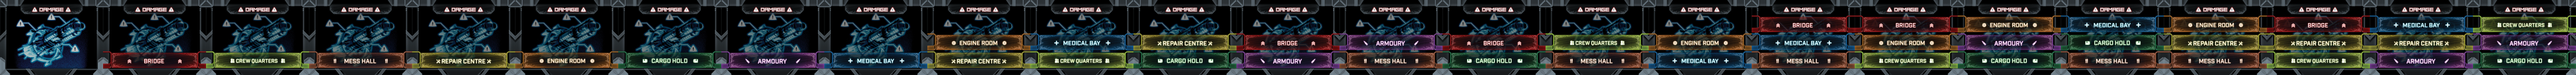
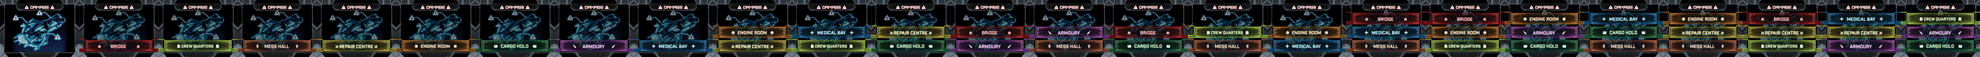
WIP

diff --git a/solarstorm.js b/solarstorm.js
@@ -68,6 +68,7 @@ define(['dojo', 'dojo/_base/declare', 'ebg/core/gamegui', 'ebg/counter', 'ebg/st
     },
 
     initializeDamageDeck() {
+      $first('.ss-damage-deck__title').innerHTML = '<span>' + _('Damage cards') + '</span>';
       const damageDeckEl = $first('.ss-damage-deck');
       this.damageDeck = this.createDamageStock(damageDeckEl);
       this.damageDeck.setOverlap(0.01);
@@ -77,12 +78,13 @@ define(['dojo', 'dojo/_base/declare', 'ebg/core/gamegui', 'ebg/counter', 'ebg/st
         this.damageDeck.addToStock(card.type);
       }
 
-      this.addTooltipMarkdown(damageDeckEl, _('Damage deck.\n----\nAt then **end of turn** of each player, a new card is revealed, indicating rooms which are damaged.\nThe deck is ordered like this :\n+ 8 damage cards with 1 room\n+ 8 damage cards with 2 rooms\n+ 8 damage cards with 3 rooms.\nWhen the deck is empty, the ship\' hull starts taking damage, and resources will be discarded from the deck, accelerating the end of the game !\n----\n+ Note: at the start of the game, two damage cards are revealed from the bottom (applying 6 damages).\n+ Note 2: if a room has a *protection* token, instead of taking damage, the protection token is removed.'), {}, 1000);
+      this.addTooltipMarkdown(damageDeckEl, _("Damage deck.\n----\nAt then **end of turn** of each player, a new card is revealed, indicating rooms which are damaged.\nThe deck is ordered like this :\n+ 8 damage cards with 1 room\n+ 8 damage cards with 2 rooms\n+ 8 damage cards with 3 rooms.\nWhen the deck is empty, the ship' hull starts taking damage, and resources will be discarded from the deck, accelerating the end of the game !\n----\n+ Note: at the start of the game, two damage cards are revealed from the bottom (applying 6 damages).\n+ Note 2: if a room has a *protection* token, instead of taking damage, the protection token is removed."), {}, 1000);
       const reorderDamageDeckEl = $first('.ss-damage-reorder-deck');
       this.reorderDamageDeck = this.createDamageStock(reorderDamageDeckEl);
     },
 
     initializeResourceDeck() {
+      $first('.ss-resource-deck__title').innerHTML = '<span>' + _('Resource cards') + '</span>';
       const resourceDeckEl = $first('.ss-resource-deck__table');
       this.resourceDeck = this.createResourceStock(resourceDeckEl);
       this.resourceDeck.setOverlap(50);
@@ -311,7 +313,7 @@ define(['dojo', 'dojo/_base/declare', 'ebg/core/gamegui', 'ebg/counter', 'ebg/st
 
     createDamageStock(el) {
       const stock = new ebg.stock();
-      stock.create(this, el, 160, 117);
+      stock.create(this, el, 123, 90);
       stock.setSelectionMode(1);
       stock.extraClasses = 'ss-damage-card';
       stock.setSelectionAppearance('class');
@@ -1458,15 +1460,15 @@ class SSPlayer {
     }, playersHandsEl);
     this.boardEl = boardEl;
     const nameEl = dojo.create('div', {
-      class: 'ss-player-board__name',
-      style: {
-        backgroundColor: '#' + this.color
-      },
-      innerHTML: `Hand of ${this.name}`
+      class: 'ss-player-board__name ss-section-title',
+      innerHTML: `<span>Hand of <span style="color: #${this.color}">${this.name}</span></span>`
     }, boardEl);
     this.handEl = dojo.create('div', {
       class: 'ss-player-hand',
-      id: `ss-player-hand--${this.id}`
+      id: `ss-player-hand--${this.id}`,
+      style: {
+        backgroundColor: `#${this.color}55`
+      }
     }, this.boardEl);
     this.actionsTokensEl = dojo.create('div', {
       class: 'ss-player-board__action-tokens'

diff --git a/solarstorm-src.js b/solarstorm-src.js
@@ -66,6 +66,8 @@ define(['dojo', 'dojo/_base/declare', 'ebg/core/gamegui', 'ebg/counter', 'ebg/st
 		},
 
 		initializeDamageDeck() {
+			$first('.ss-damage-deck__title').innerHTML = '<span>' + _('Damage cards') + '</span>'
+
 			const damageDeckEl = $first('.ss-damage-deck')
 			this.damageDeck = this.createDamageStock(damageDeckEl)
 			this.damageDeck.setOverlap(0.01)
@@ -76,7 +78,7 @@ define(['dojo', 'dojo/_base/declare', 'ebg/core/gamegui', 'ebg/counter', 'ebg/st
 			this.addTooltipMarkdown(
 				damageDeckEl,
 				_(
-					'Damage deck.\n----\nAt then **end of turn** of each player, a new card is revealed, indicating rooms which are damaged.\nThe deck is ordered like this :\n+ 8 damage cards with 1 room\n+ 8 damage cards with 2 rooms\n+ 8 damage cards with 3 rooms.\nWhen the deck is empty, the ship\' hull starts taking damage, and resources will be discarded from the deck, accelerating the end of the game !\n----\n+ Note: at the start of the game, two damage cards are revealed from the bottom (applying 6 damages).\n+ Note 2: if a room has a *protection* token, instead of taking damage, the protection token is removed.'
+					"Damage deck.\n----\nAt then **end of turn** of each player, a new card is revealed, indicating rooms which are damaged.\nThe deck is ordered like this :\n+ 8 damage cards with 1 room\n+ 8 damage cards with 2 rooms\n+ 8 damage cards with 3 rooms.\nWhen the deck is empty, the ship' hull starts taking damage, and resources will be discarded from the deck, accelerating the end of the game !\n----\n+ Note: at the start of the game, two damage cards are revealed from the bottom (applying 6 damages).\n+ Note 2: if a room has a *protection* token, instead of taking damage, the protection token is removed."
 				),
 				{},
 				1000
@@ -87,6 +89,8 @@ define(['dojo', 'dojo/_base/declare', 'ebg/core/gamegui', 'ebg/counter', 'ebg/st
 		},
 
 		initializeResourceDeck() {
+			$first('.ss-resource-deck__title').innerHTML = '<span>' + _('Resource cards') + '</span>'
+
 			const resourceDeckEl = $first('.ss-resource-deck__table')
 			this.resourceDeck = this.createResourceStock(resourceDeckEl)
 			this.resourceDeck.setOverlap(50)
@@ -304,7 +308,7 @@ define(['dojo', 'dojo/_base/declare', 'ebg/core/gamegui', 'ebg/counter', 'ebg/st
 
 		createDamageStock(el) {
 			const stock = new ebg.stock()
-			stock.create(this, el, 160, 117)
+			stock.create(this, el, 123, 90)
 			stock.setSelectionMode(1)
 			stock.extraClasses = 'ss-damage-card'
 			stock.setSelectionAppearance('class')
@@ -1336,13 +1340,20 @@ class SSPlayer {
 		const nameEl = dojo.create(
 			'div',
 			{
-				class: 'ss-player-board__name',
-				style: { backgroundColor: '#' + this.color },
-				innerHTML: `Hand of ${this.name}`
+				class: 'ss-player-board__name ss-section-title',
+				innerHTML: `<span>Hand of <span style="color: #${this.color}">${this.name}</span></span>`
 			},
 			boardEl
 		)
-		this.handEl = dojo.create('div', { class: 'ss-player-hand', id: `ss-player-hand--${this.id}` }, this.boardEl)
+		this.handEl = dojo.create(
+			'div',
+			{
+				class: 'ss-player-hand',
+				id: `ss-player-hand--${this.id}`,
+				style: { backgroundColor: `#${this.color}55` }
+			},
+			this.boardEl
+		)
 		this.actionsTokensEl = dojo.create('div', { class: 'ss-player-board__action-tokens' }, boardEl)
 		dojo.create('div', { class: 'ss-player-board__action-tokens__token ss-action-token' }, this.actionsTokensEl)
 		this.actionsTokensNumberEl = dojo.create(

diff --git a/solarstorm.css b/solarstorm.css
@@ -8,6 +8,25 @@
  * -----
  */
 
+.ss-section-title > span {
+	background-image: url(img/title-bg.png);
+	background-position: 100% 0%;
+	background-repeat: no-repeat;
+	color: #57c6f1;
+	display: inline-block;
+	font-size: 13px;
+	font-weight: bold;
+	height: 26px;
+	line-height: 26px;
+	margin-bottom: 5px;
+	overflow: hidden;
+	padding-left: 5px;
+	padding-right: 20px;
+	text-overflow: ellipsis;
+	text-transform: uppercase;
+	white-space: nowrap;
+}
+
 .ss-wrapper,
 .ss-wrapper * {
 	box-sizing: border-box;
@@ -225,9 +244,13 @@
 .ss-resource-deck {
 	display: flex;
 	flex-direction: row;
-	flex-wrap: nowrap;
+	flex-wrap: wrap;
 	flex: 1;
 	min-width: 230px;
+}
+
+.ss-resource-deck__title {
+	width: 100%;
 }
 
 .ss-resource-deck__deck {
@@ -269,14 +292,18 @@
 }
 
 .ss-players-hands {
-	display: flex;
-	flex-wrap: wrap;
+	display: grid;
+	grid-template-columns: repeat(auto-fill, minmax(230px, 1fr));
+	grid-gap: 20px;
+	align-items: start;
 	margin-top: 10px;
 }
 
+.ss-player-hand {
+	padding: 5px;
+}
+
 .ss-player-board {
-	min-width: 230px;
-	flex: 1;
 	display: flex;
 	flex-wrap: wrap;
 	margin-right: 10px;
@@ -289,8 +316,6 @@
 }
 
 .ss-player-board__name {
-	padding: 5px 10px;
-	margin-bottom: 5px;
 	width: 100%;
 }
 
